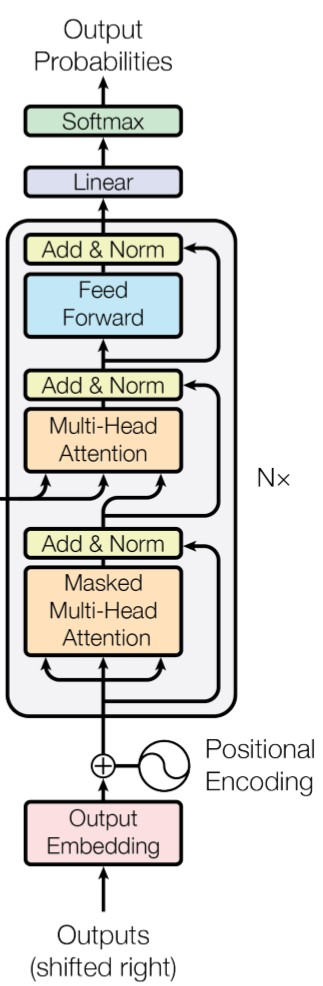
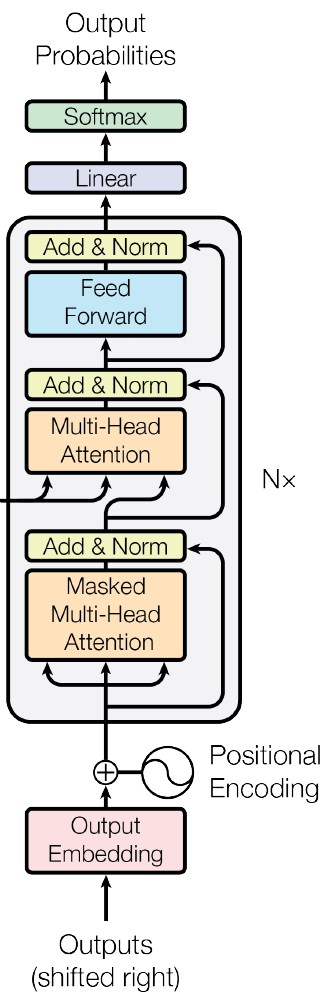
Update images and README

Changed region(s): [[0.0, 0.0, 0.9907, 1.0], [0.805, 0.4564, 0.8978, 0.5172]]

diff --git a/README.md b/README.md
@@ -123,7 +123,7 @@ The original transformer architecture presented in this paper consists of an enc
 
 <a>
   <p align="center">
-    <img width="400" height="600" src="other/official_transformer_arch_illustration.jpg" style='border:8px solid #bfbfbf'>
+    <img width="400" height="600" src="other/transformer_architecture.jpg" style='border:8px solid #bfbfbf'>
   </p>
 </a>
 
